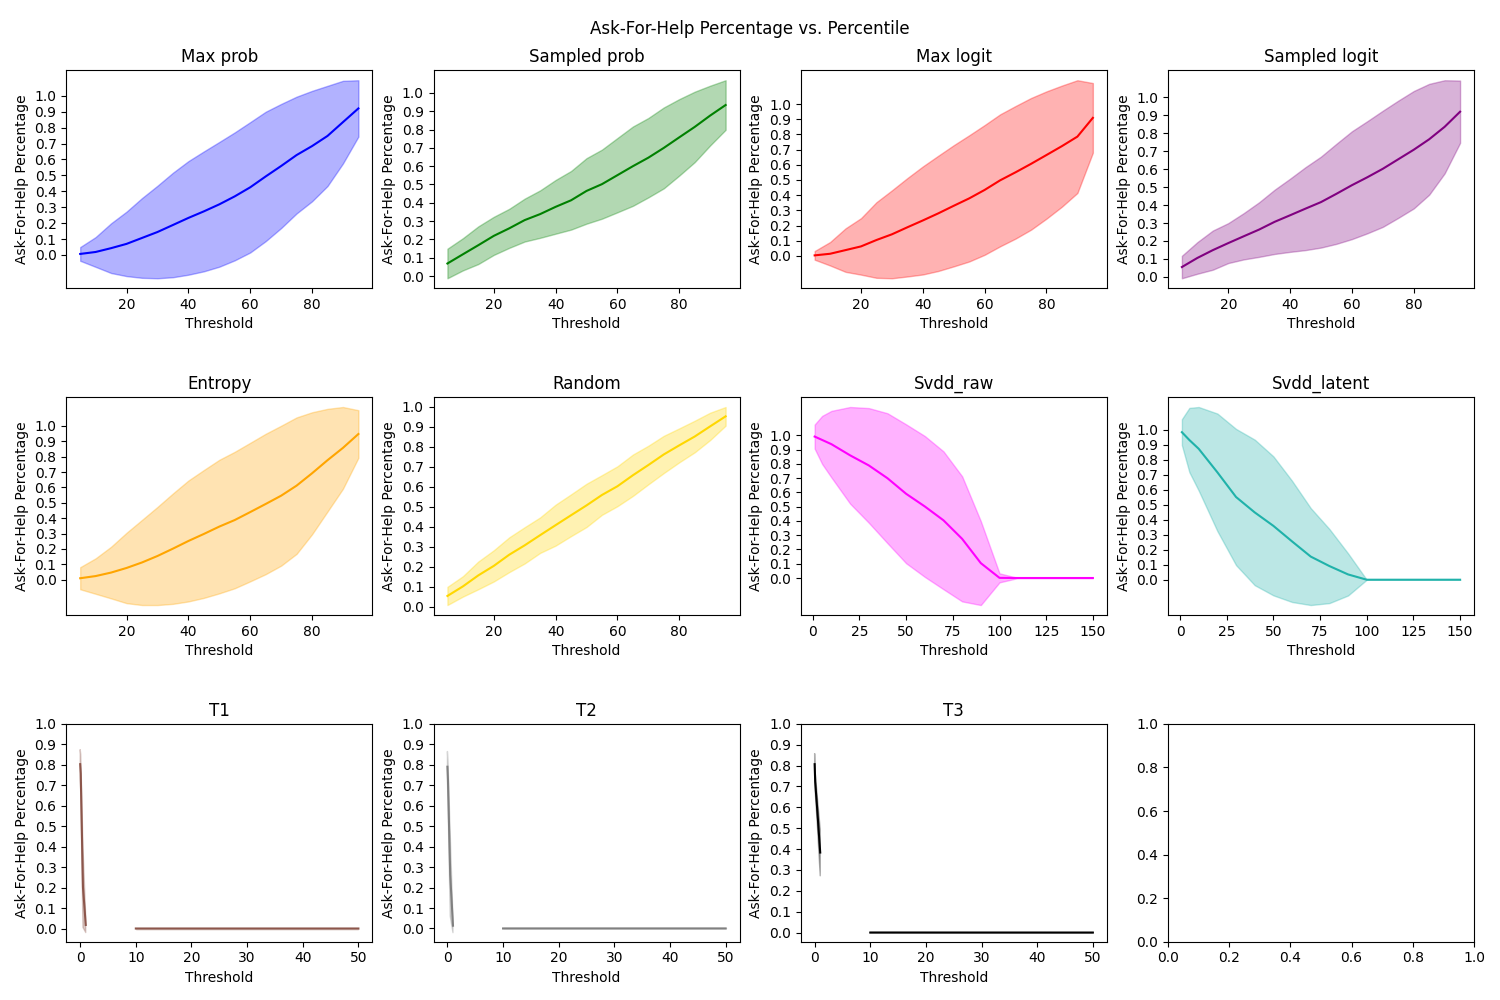
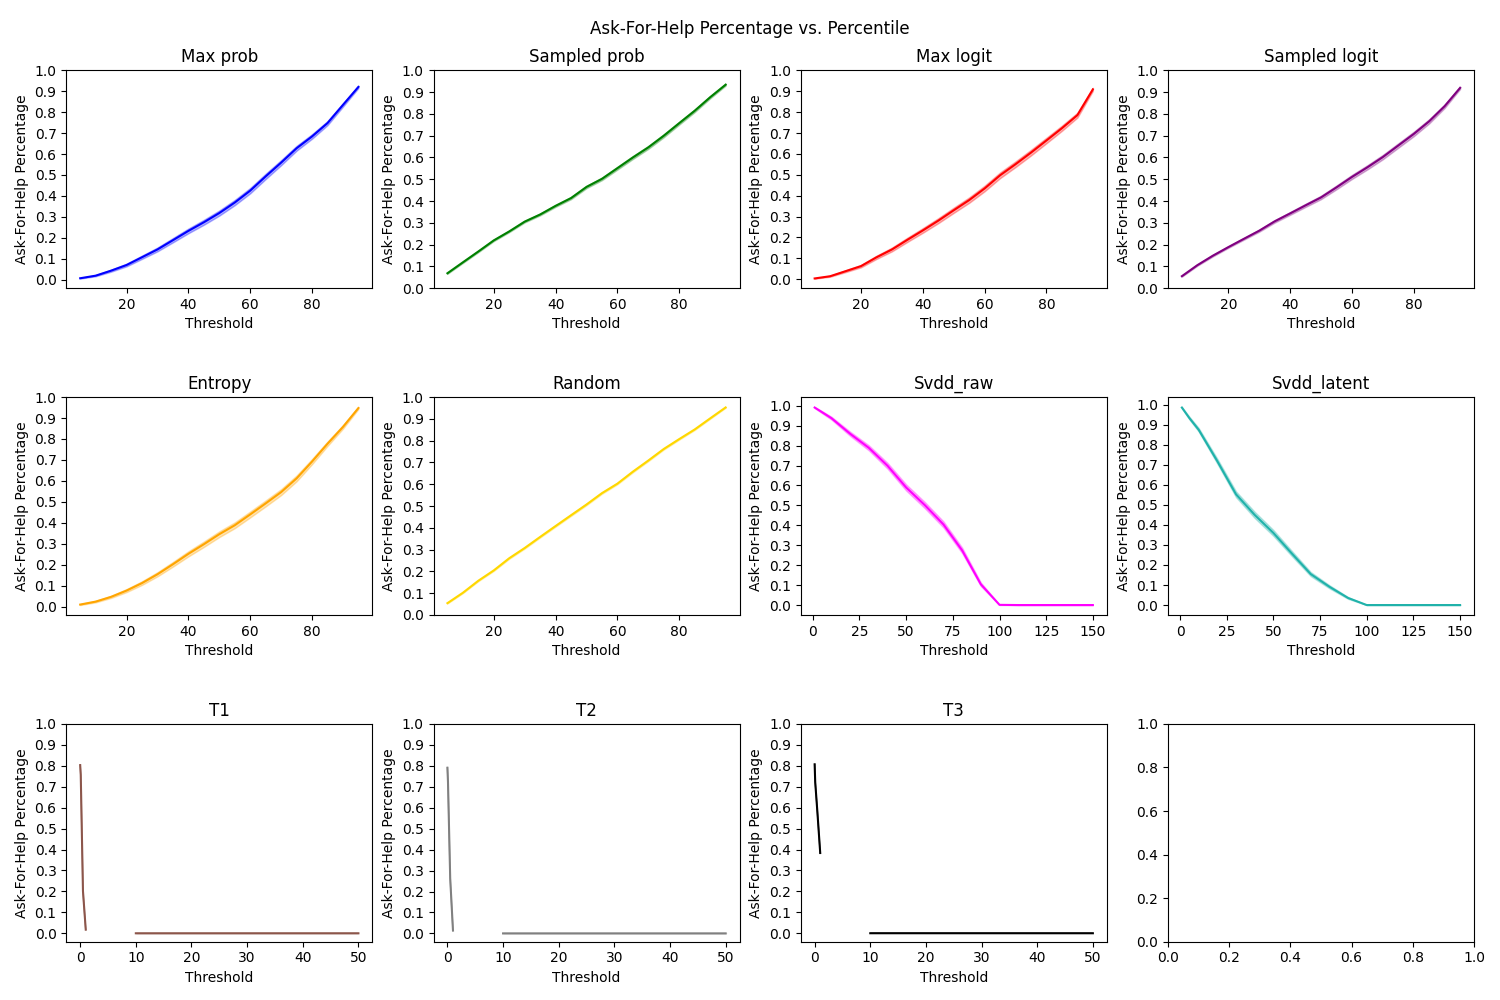
eh?

diff --git a/full_analysis.py b/full_analysis.py
@@ -338,7 +338,7 @@ for metric in include_metrics:
             ax = axes2[plot_i // 4][plot_i % 4]
             help_prop_means, help_prop_stds, help_prop_sems = get_statistics_nested(help_props_by_perc[metric], True)
             ax.plot(iterable, help_prop_means, color = colors[metric])
-            ax.fill_between(iterable, help_prop_means - help_prop_stds, help_prop_means + help_prop_stds, color = colors[metric], alpha = 0.3)
+            ax.fill_between(iterable, help_prop_means - help_prop_sems, help_prop_means + help_prop_sems, color = colors[metric], alpha = 0.3)
             # for x, y in zip(percentiles, help_prop_means):
                 # ax.hlines(y, 0, x, colors = "gray", linestyles = "dashed", linewidth = 0.5)
             ax.set_title(metric.capitalize())
@@ -451,7 +451,11 @@ if args.plotting:
             axes6.plot(afhp_means[0], rew_means[0], "o")
             axes6.plot(afhp_means[-1], rew_means[-1], "o")
         axes5.legend()
+        axes6.legend()
         fig5.suptitle("Performance vs. AFHP, All Metrics")
+        fig6.suptitle("Performance vs. AFHP, All Metrics")
         fig5.tight_layout()
+        fig6.tight_layout()
         fig5.savefig(f"plots/{args.test_env}/{args.prefix}_performance_by_afhp_all{args.suffix}.png")
+        fig6.savefig(f"plots/{args.test_env}/{args.prefix}_grand_metric_all{args.suffix}.png")
         print("Done one plot of grouped 3")
